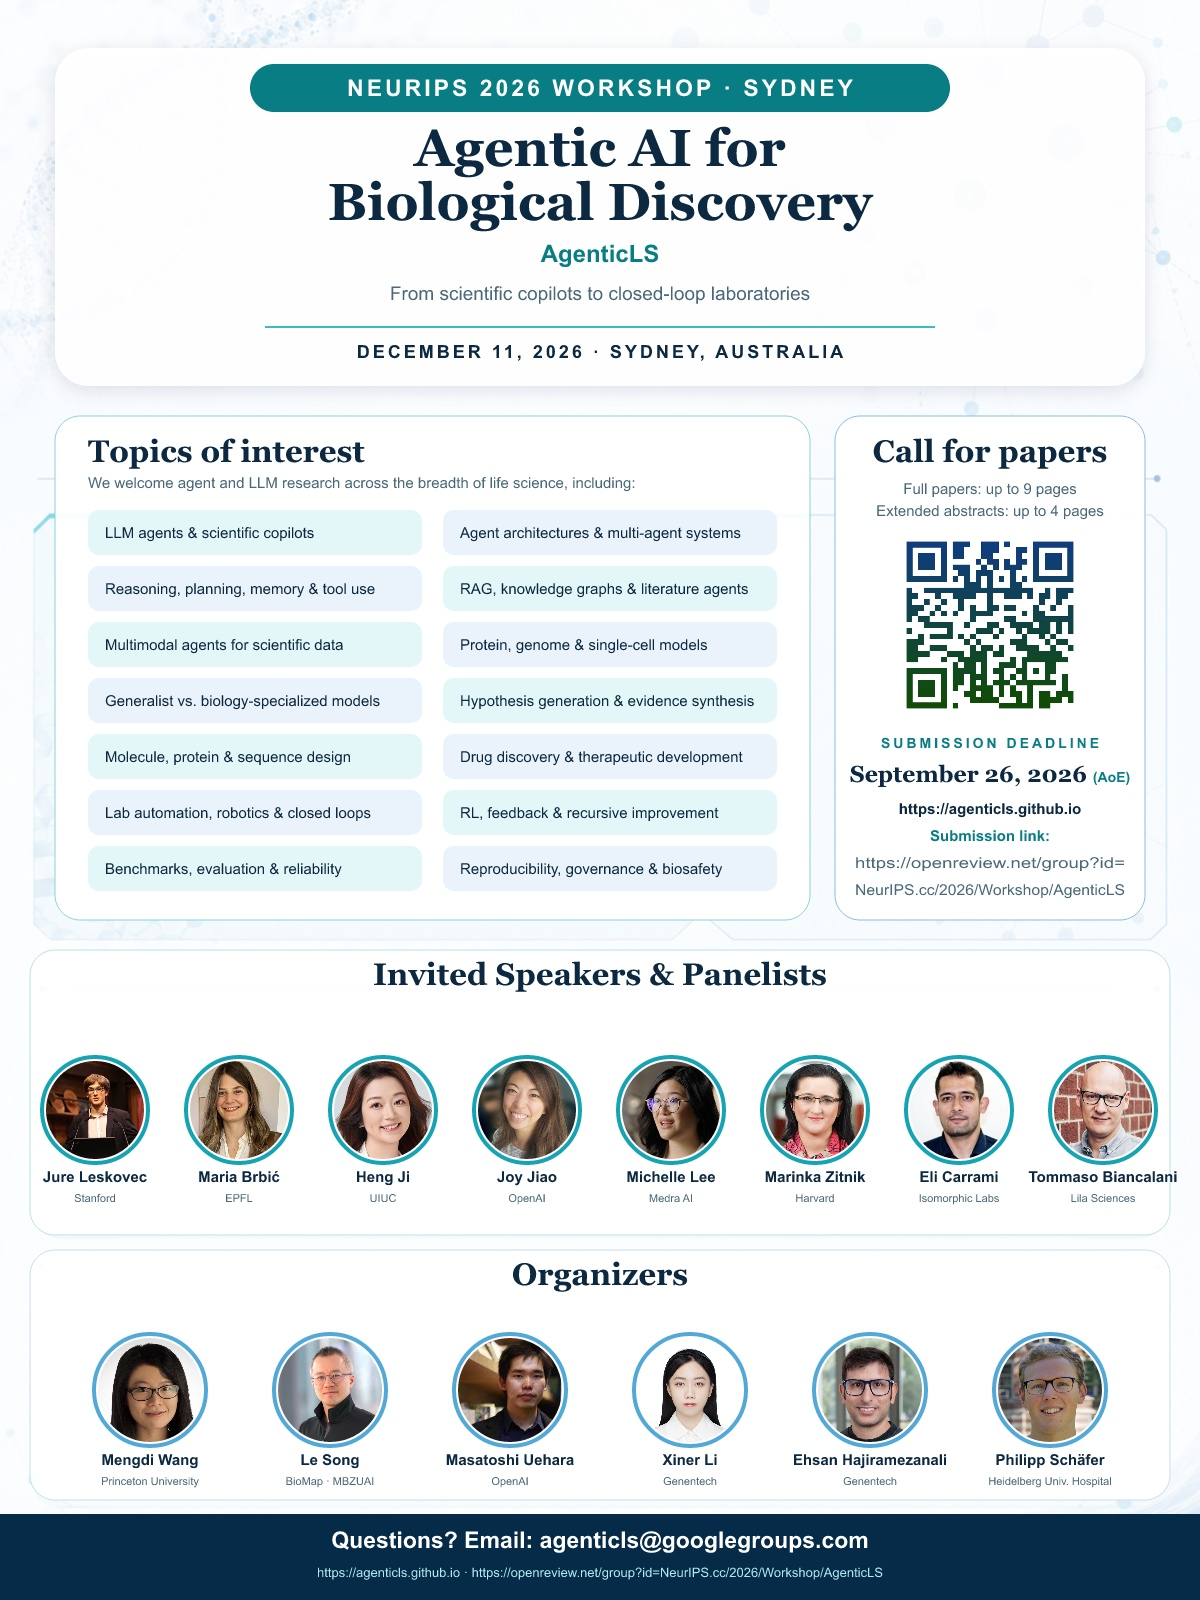
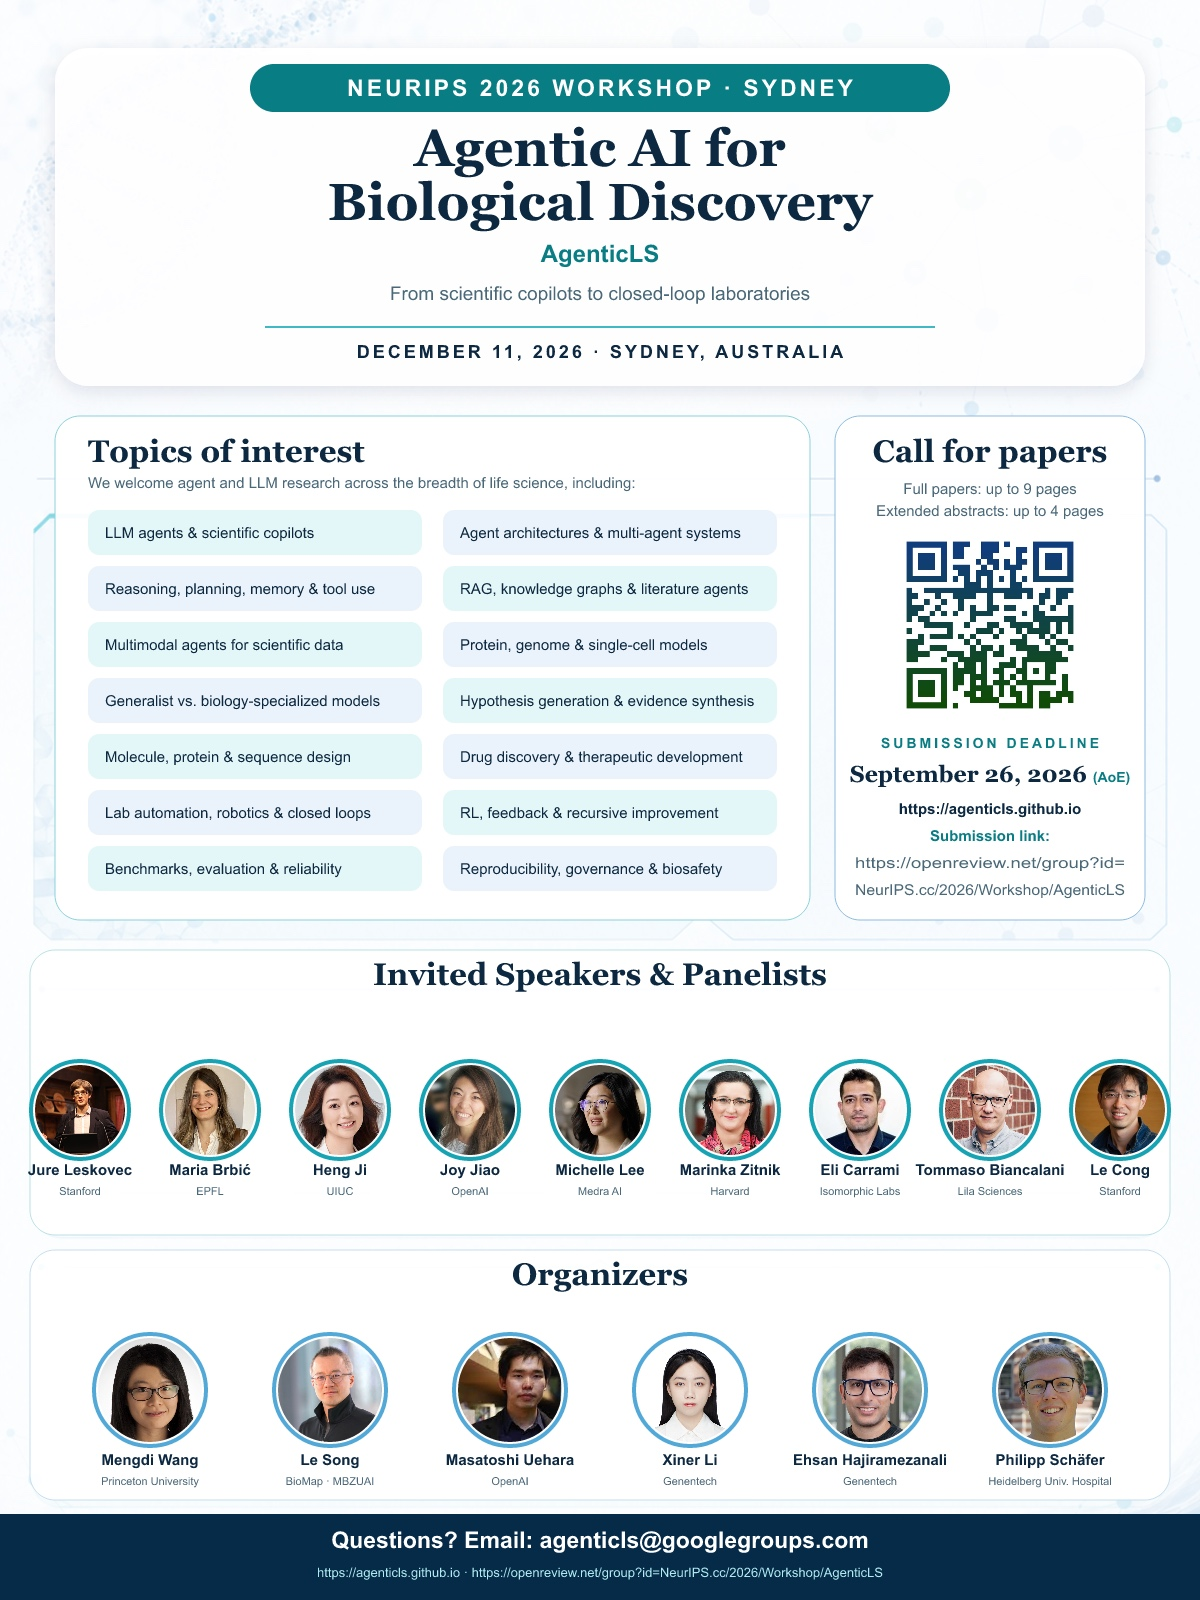
Add Le Cong as panelist

Changed region(s): [[0.0, 0.6562, 0.9867, 0.75]]

diff --git a/speakers.html b/speakers.html
@@ -83,7 +83,7 @@
   <div class="wrap">
     <h2 class="section-title">Panelists</h2>
     <p class="section-lead">A 50-minute panel on the generalist-vs.-specialist debate and the “how to build” question.</p>
-    <div class="people cols-3">
+    <div class="people">
       <div class="person">
         <img class="photo" src="assets/photos/marinka-zitnik.jpg" alt="Marinka Zitnik" />
         <div class="name">Marinka Zitnik</div>
@@ -101,6 +101,12 @@
         <div class="name">Tommaso Biancalani</div>
         <div class="aff">SVP, Generative Biology, Lila Sciences</div>
         <div class="topic">Lab-in-the-loop AI; foundation models for biology</div>
+      </div>
+      <div class="person">
+        <img class="photo" src="assets/photos/le-cong.jpeg" alt="Le Cong" />
+        <div class="name"><a href="https://profiles.stanford.edu/186687">Le Cong</a></div>
+        <div class="aff">Professor, Stanford University</div>
+        <div class="topic">Genome engineering &amp; functional genomics</div>
       </div>
     </div>
   </div>

diff --git a/index.html b/index.html
@@ -197,6 +197,12 @@
         <div class="aff">SVP, Generative Biology, Lila Sciences</div>
         <div class="topic">Lab-in-the-loop AI; foundation models for biology</div>
       </div>
+      <div class="person">
+        <img class="photo" src="assets/photos/le-cong.jpeg" alt="Le Cong" />
+        <div class="name"><a href="https://profiles.stanford.edu/186687">Le Cong</a></div>
+        <div class="aff">Professor, Stanford University</div>
+        <div class="topic">Genome engineering &amp; functional genomics</div>
+      </div>
     </div>
     <p class="mt center"><a class="btn btn-dark" href="organizers.html">Meet the organizers &rarr;</a></p>
   </div>
